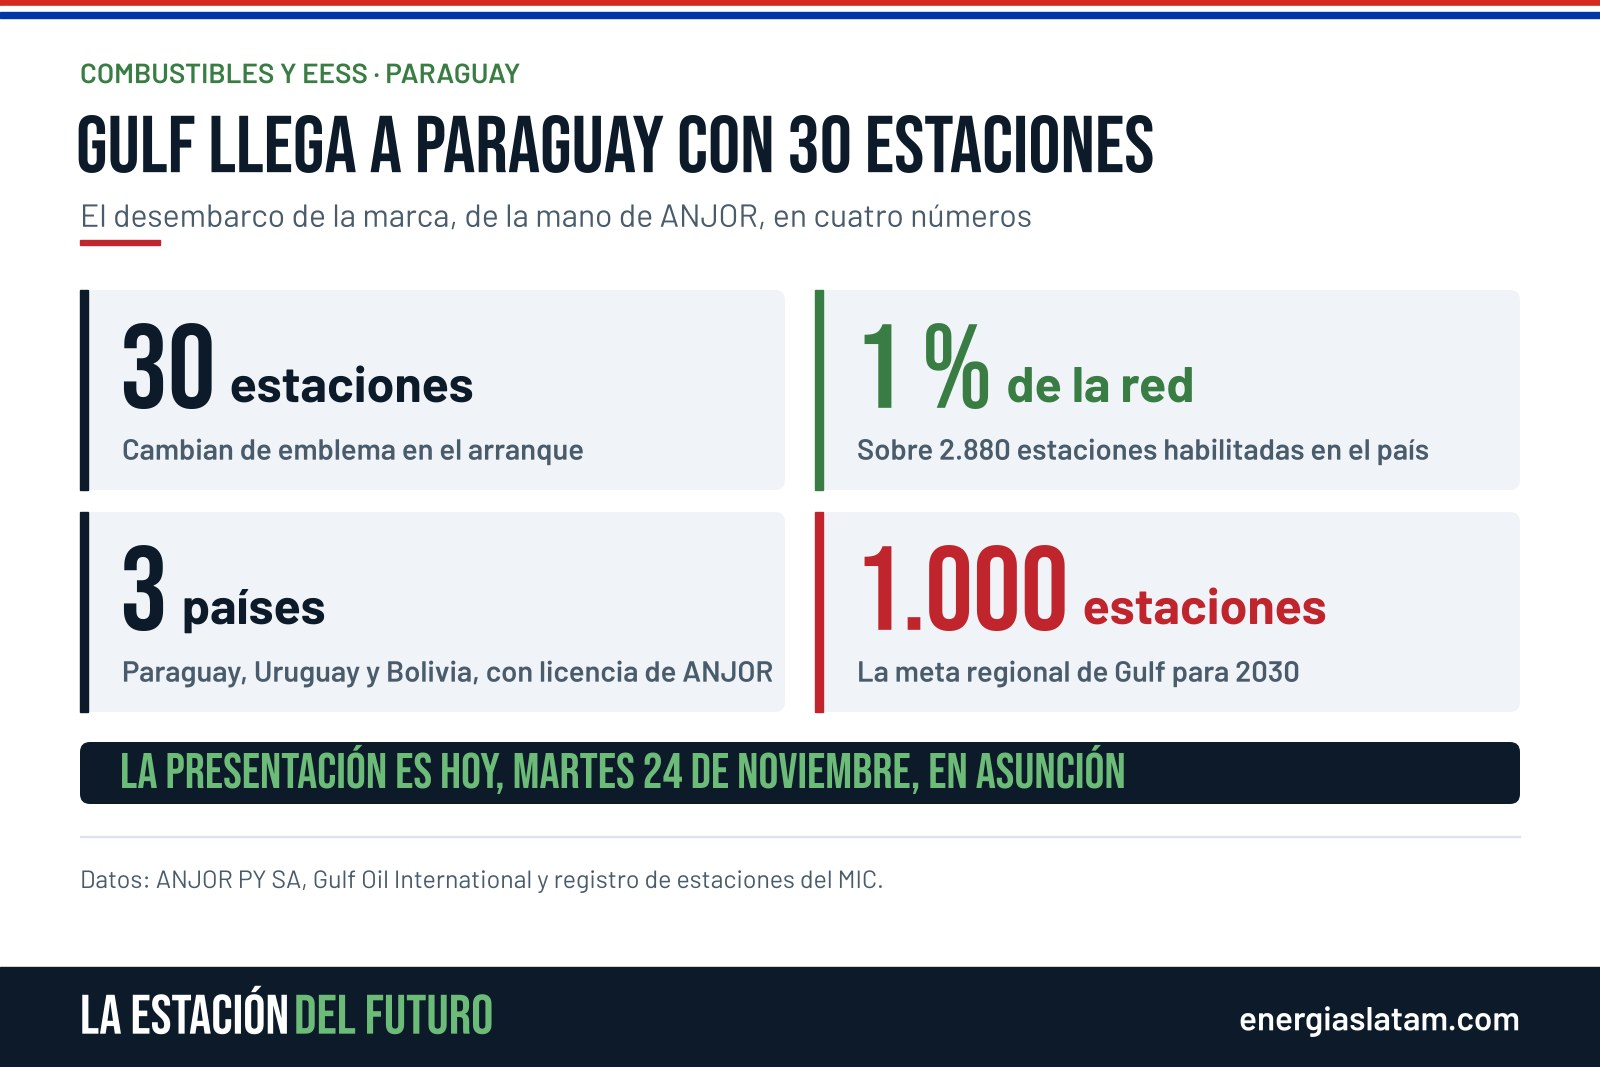
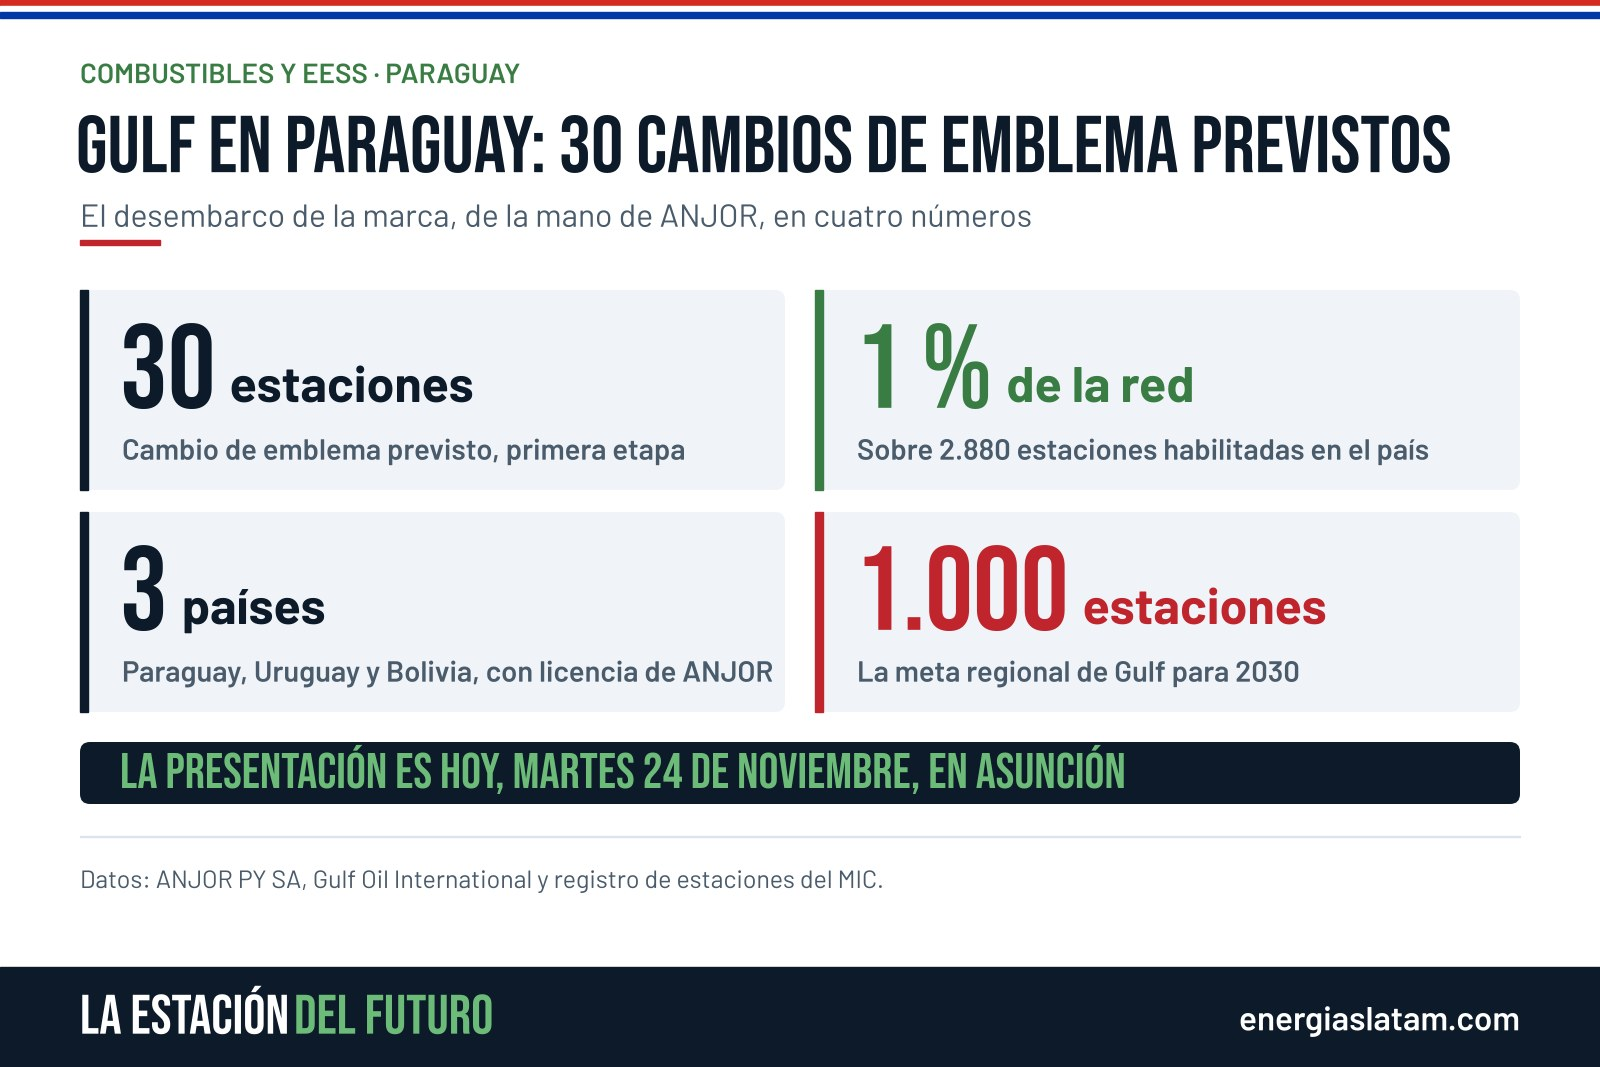
Gulf: titular y arranque precisan que los 30 cambios de emblema son previstos
Claude-Session: https://claude.ai/code/session_01HHGRFrapr8AXyd2C4Baz1m

Changed region(s): [[0.125, 0.0928, 0.9062, 0.1856], [0.125, 0.4021, 0.4375, 0.433]]

diff --git a/notas/2026-11-24-gulf-paraguay-30-estaciones-anjor-lanzamiento.html b/notas/2026-11-24-gulf-paraguay-30-estaciones-anjor-lanzamiento.html
@@ -1,12 +1,12 @@
 <figure><img src="img/2026-11-24-gulf-paraguay-30-estaciones-anjor-lanzamiento-2.jpg" alt="Pantalla gigante con el logo de Gulf y una estación de servicio con los colores de la marca, en la vía pública"><figcaption>La campaña de Gulf en la vía pública, en la previa del lanzamiento.</figcaption></figure>
 
-<figure><img src="img/2026-11-24-gulf-paraguay-30-estaciones-anjor-lanzamiento-1.jpg" alt="Gulf llega a Paraguay con 30 estaciones, cerca del 1 por ciento de una red de 2.880, de la mano de ANJOR, licenciataria para Paraguay, Uruguay y Bolivia"><figcaption>El desembarco de Gulf en Paraguay, en cuatro números.</figcaption></figure>
+<figure><img src="img/2026-11-24-gulf-paraguay-30-estaciones-anjor-lanzamiento-1.jpg" alt="Gulf en Paraguay: 30 cambios de emblema previstos, cerca del 1 por ciento de una red de 2.880, de la mano de ANJOR, licenciataria para Paraguay, Uruguay y Bolivia"><figcaption>El desembarco de Gulf en Paraguay, en cuatro números.</figcaption></figure>
 
-<p>Gulf empieza a operar en Paraguay con <b>30 estaciones de servicio</b> que van a cambiar de emblema. El dato lo dio Adalberto Acuña, gerente general de ANJOR PY SA, la empresa que tiene la licencia de la marca en el país. La presentación oficial es hoy, martes 24 de noviembre, a las 18:00 en el Sheraton de Asunción.</p>
+<p>ANJOR PY SA prevé que <b>30 estaciones de servicio</b> que ya existen pasen a operar con la marca Gulf en la primera etapa de su desembarco en Paraguay. El dato lo dio Adalberto Acuña, gerente general de la empresa, que tiene la licencia de la marca en el país. No identificó cuáles son ni dio una fecha para el cambio, que describió como progresivo y por etapas. La presentación oficial es hoy, martes 24 de noviembre, a las 18:00 en el Sheraton de Asunción.</p>
 
-<p>Treinta bocas son cerca del 1 % de la red paraguaya, que tiene 2.880 estaciones habilitadas según el registro del Ministerio de Industria y Comercio. Es un arranque del tamaño de las redes chicas del país, en un mercado donde cinco marcas concentran la mitad de las estaciones.</p>
+<p>Treinta bocas son cerca del 1 % de la red paraguaya, que tiene 2.880 estaciones habilitadas según el registro del Ministerio de Industria y Comercio. Sería un arranque del tamaño de las redes chicas del país, en un mercado donde cinco marcas concentran la mitad de las estaciones.</p>
 
-<div class="datos"><div><b>30 estaciones</b><span>Las que cambian de emblema en el arranque: cerca del 1 % de la red del país</span></div><div><b>3 países</b><span>Paraguay, Uruguay y Bolivia: los mercados donde ANJOR tiene la licencia exclusiva de Gulf</span></div><div><b>1.000 estaciones</b><span>La meta regional que Gulf Oil International fijó para 2030</span></div></div>
+<div class="datos"><div><b>30 estaciones</b><span>Los cambios de emblema previstos para la primera etapa: cerca del 1 % de la red del país</span></div><div><b>3 países</b><span>Paraguay, Uruguay y Bolivia: los mercados donde ANJOR tiene la licencia exclusiva de Gulf</span></div><div><b>1.000 estaciones</b><span>La meta regional que Gulf Oil International fijó para 2030</span></div></div>
 
 <h2>Quién está detrás</h2>
 

diff --git a/herramientas/gu24_carr.py b/herramientas/gu24_carr.py
@@ -53,8 +53,8 @@ ax.text(70,1042,'a las 18:00 en Asunción.',fontfamily=B,fontsize=30,color=M,va=
 save(fig,1)
 
 fig,ax=base(2,'EL ARRANQUE')
-y=title(ax,['TREINTA BOCAS','PARA EMPEZAR'],y0=210,size=88,step=98)
-big3(fig,ax,y,[('30|estaciones','Cambian de emblema en el arranque'),('1 %','De una red de 2.880 estaciones habilitadas'),('0','Estaciones sin bandera hay en Paraguay')],fs=68)
+y=title(ax,['TREINTA BOCAS','EN LA PRIMERA ETAPA'],y0=210,size=88,step=98)
+big3(fig,ax,y,[('30|estaciones','Cambios de emblema previstos, primera etapa'),('1 %','De una red de 2.880 estaciones habilitadas'),('0','Estaciones sin bandera hay en Paraguay')],fs=68)
 ax.text(70,1180,'Cada estación que suma un emblema nuevo',fontfamily=B,fontweight='bold',fontsize=30,color=W,va='center')
 ax.text(70,1226,'sale de otro.',fontfamily=B,fontsize=27,color=M,va='center')
 save(fig,2)

diff --git a/herramientas/gu24.py b/herramientas/gu24.py
@@ -43,8 +43,8 @@ def num(fig,ax,x,y,big,uni,fs,col,ufs=None,dy=8):
 
 
 
-fig,ax=hdr('COMBUSTIBLES Y EESS · PARAGUAY','GULF LLEGA A PARAGUAY CON 30 ESTACIONES','El desembarco de la marca, de la mano de ANJOR, en cuatro números')
-tiles=[('30','estaciones','Cambian de emblema en el arranque',NV),
+fig,ax=hdr('COMBUSTIBLES Y EESS · PARAGUAY','GULF EN PARAGUAY: 30 CAMBIOS DE EMBLEMA PREVISTOS','El desembarco de la marca, de la mano de ANJOR, en cuatro números')
+tiles=[('30','estaciones','Cambio de emblema previsto, primera etapa',NV),
        ('1 %','de la red','Sobre 2.880 estaciones habilitadas en el país',GR),
        ('3','países','Paraguay, Uruguay y Bolivia, con licencia de ANJOR',NV),
        ('1.000','estaciones','La meta regional de Gulf para 2030',RD)]
